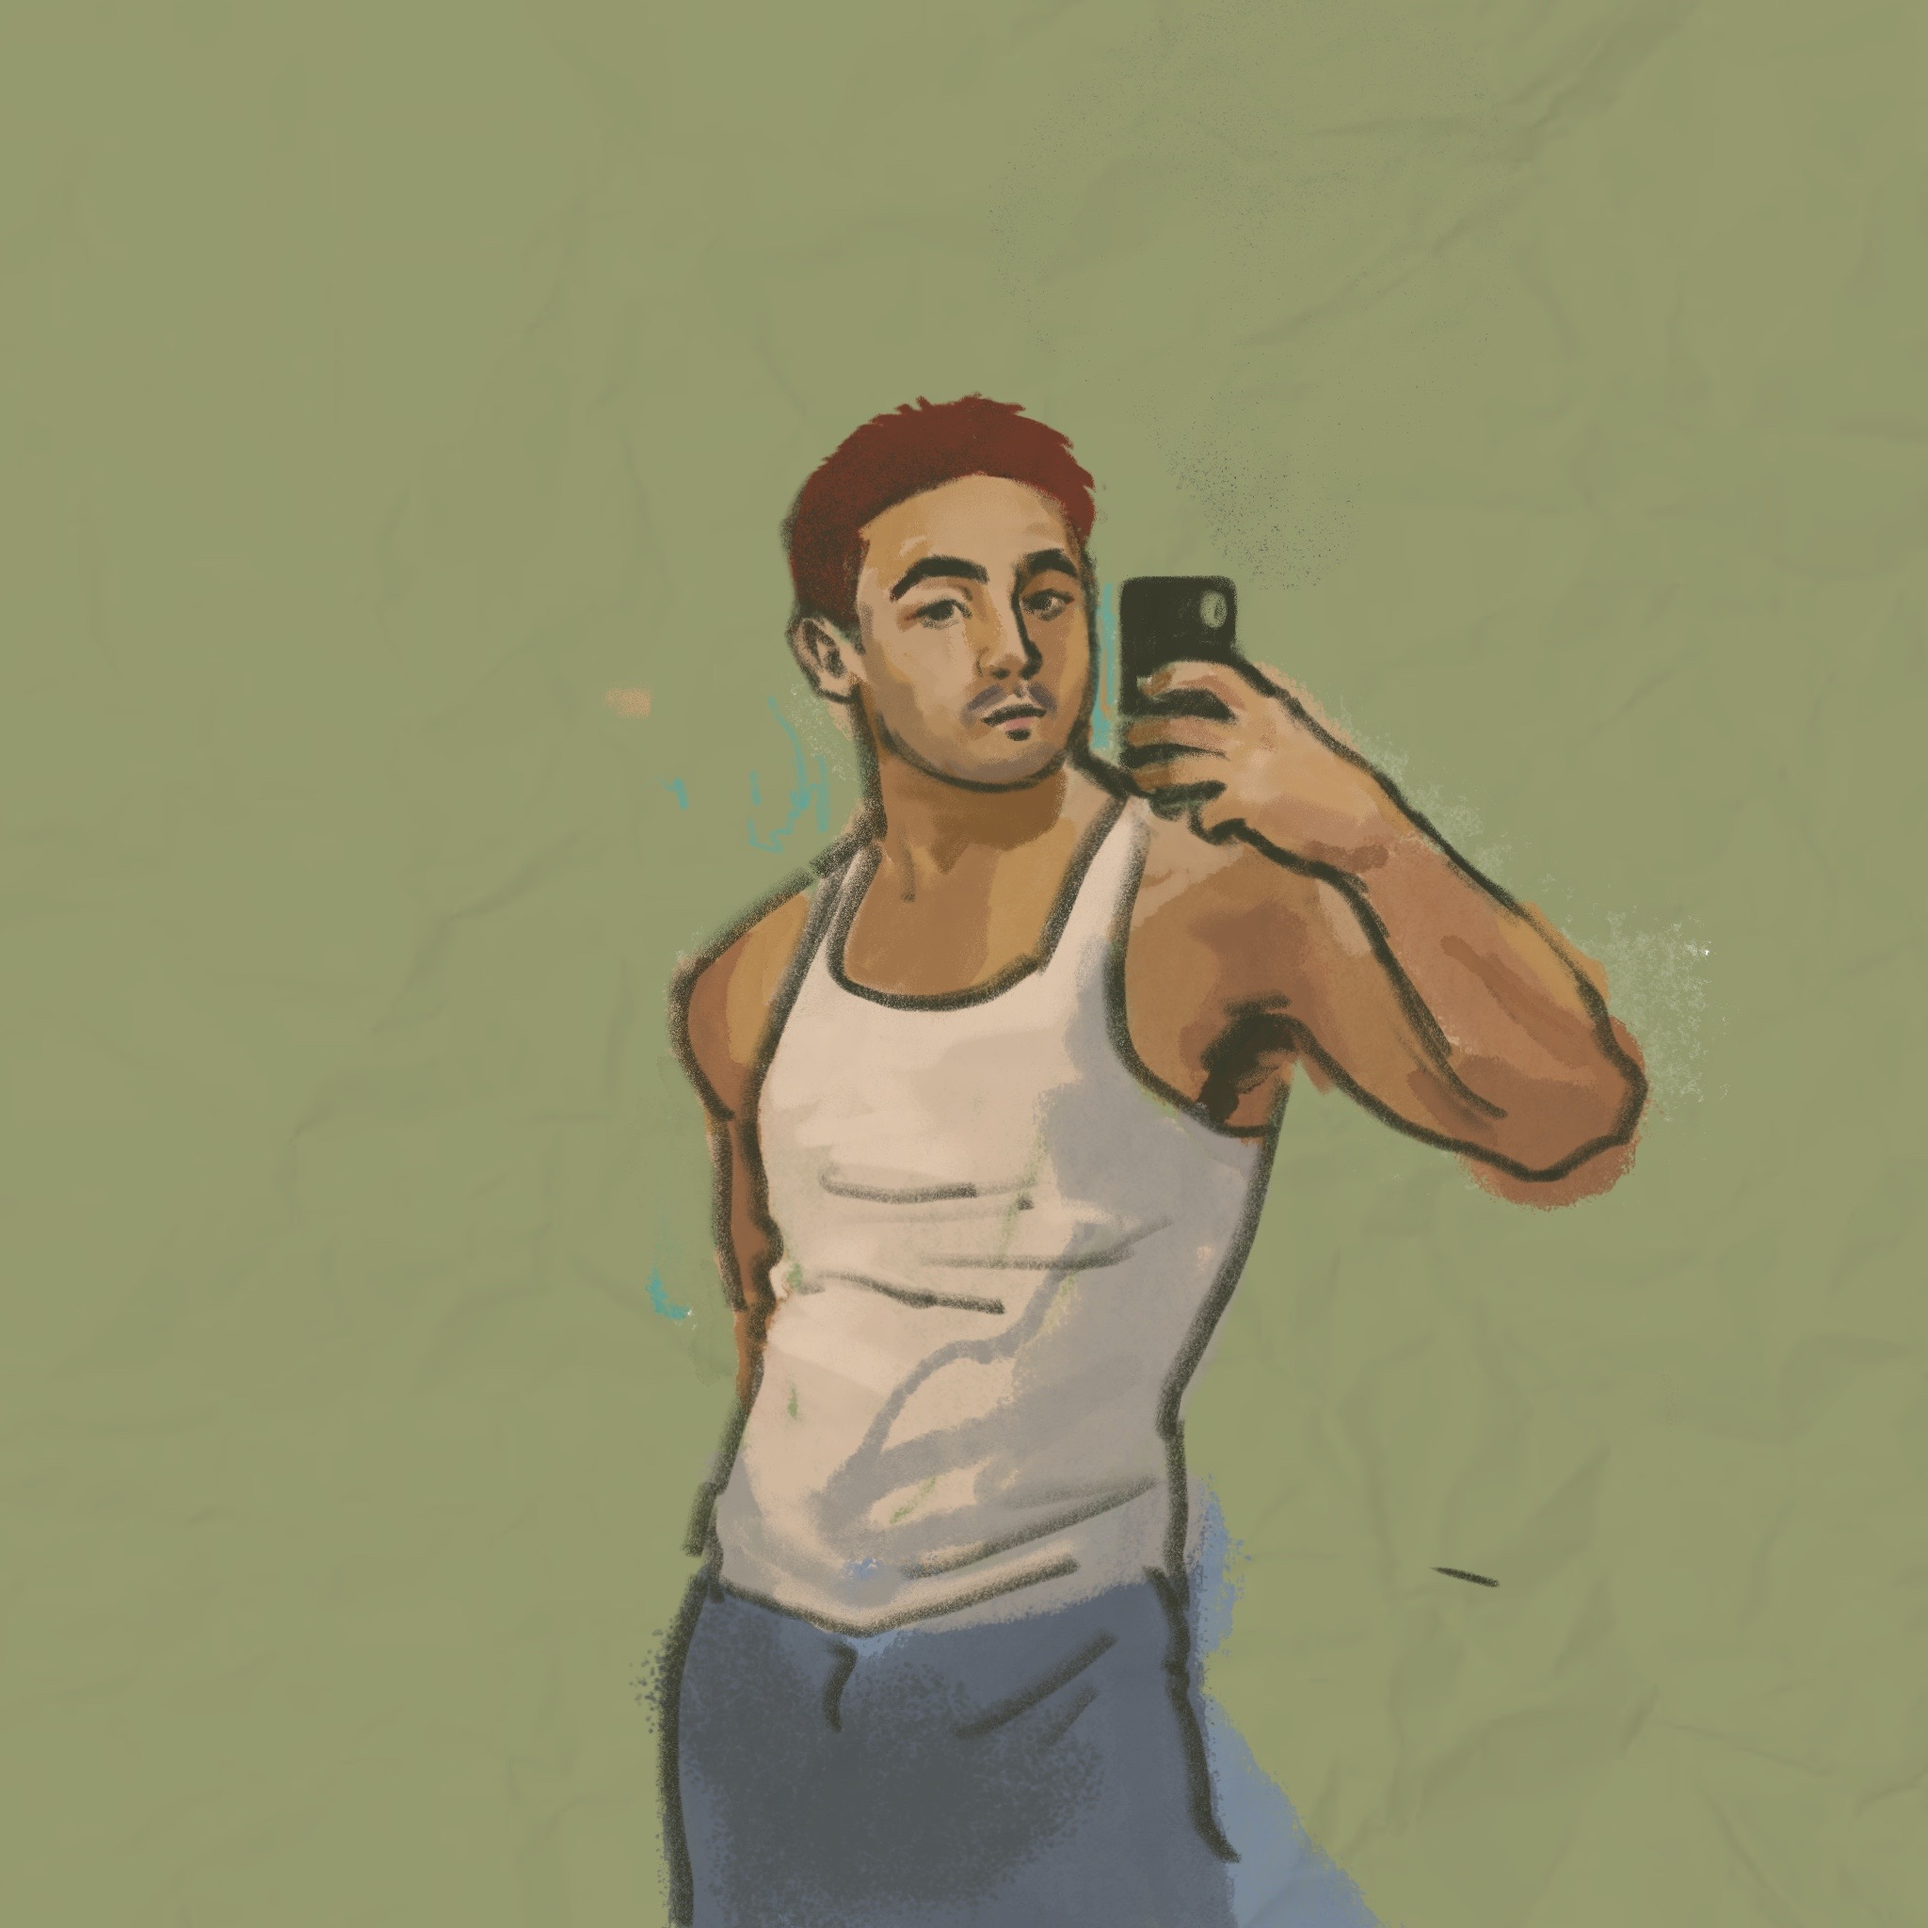
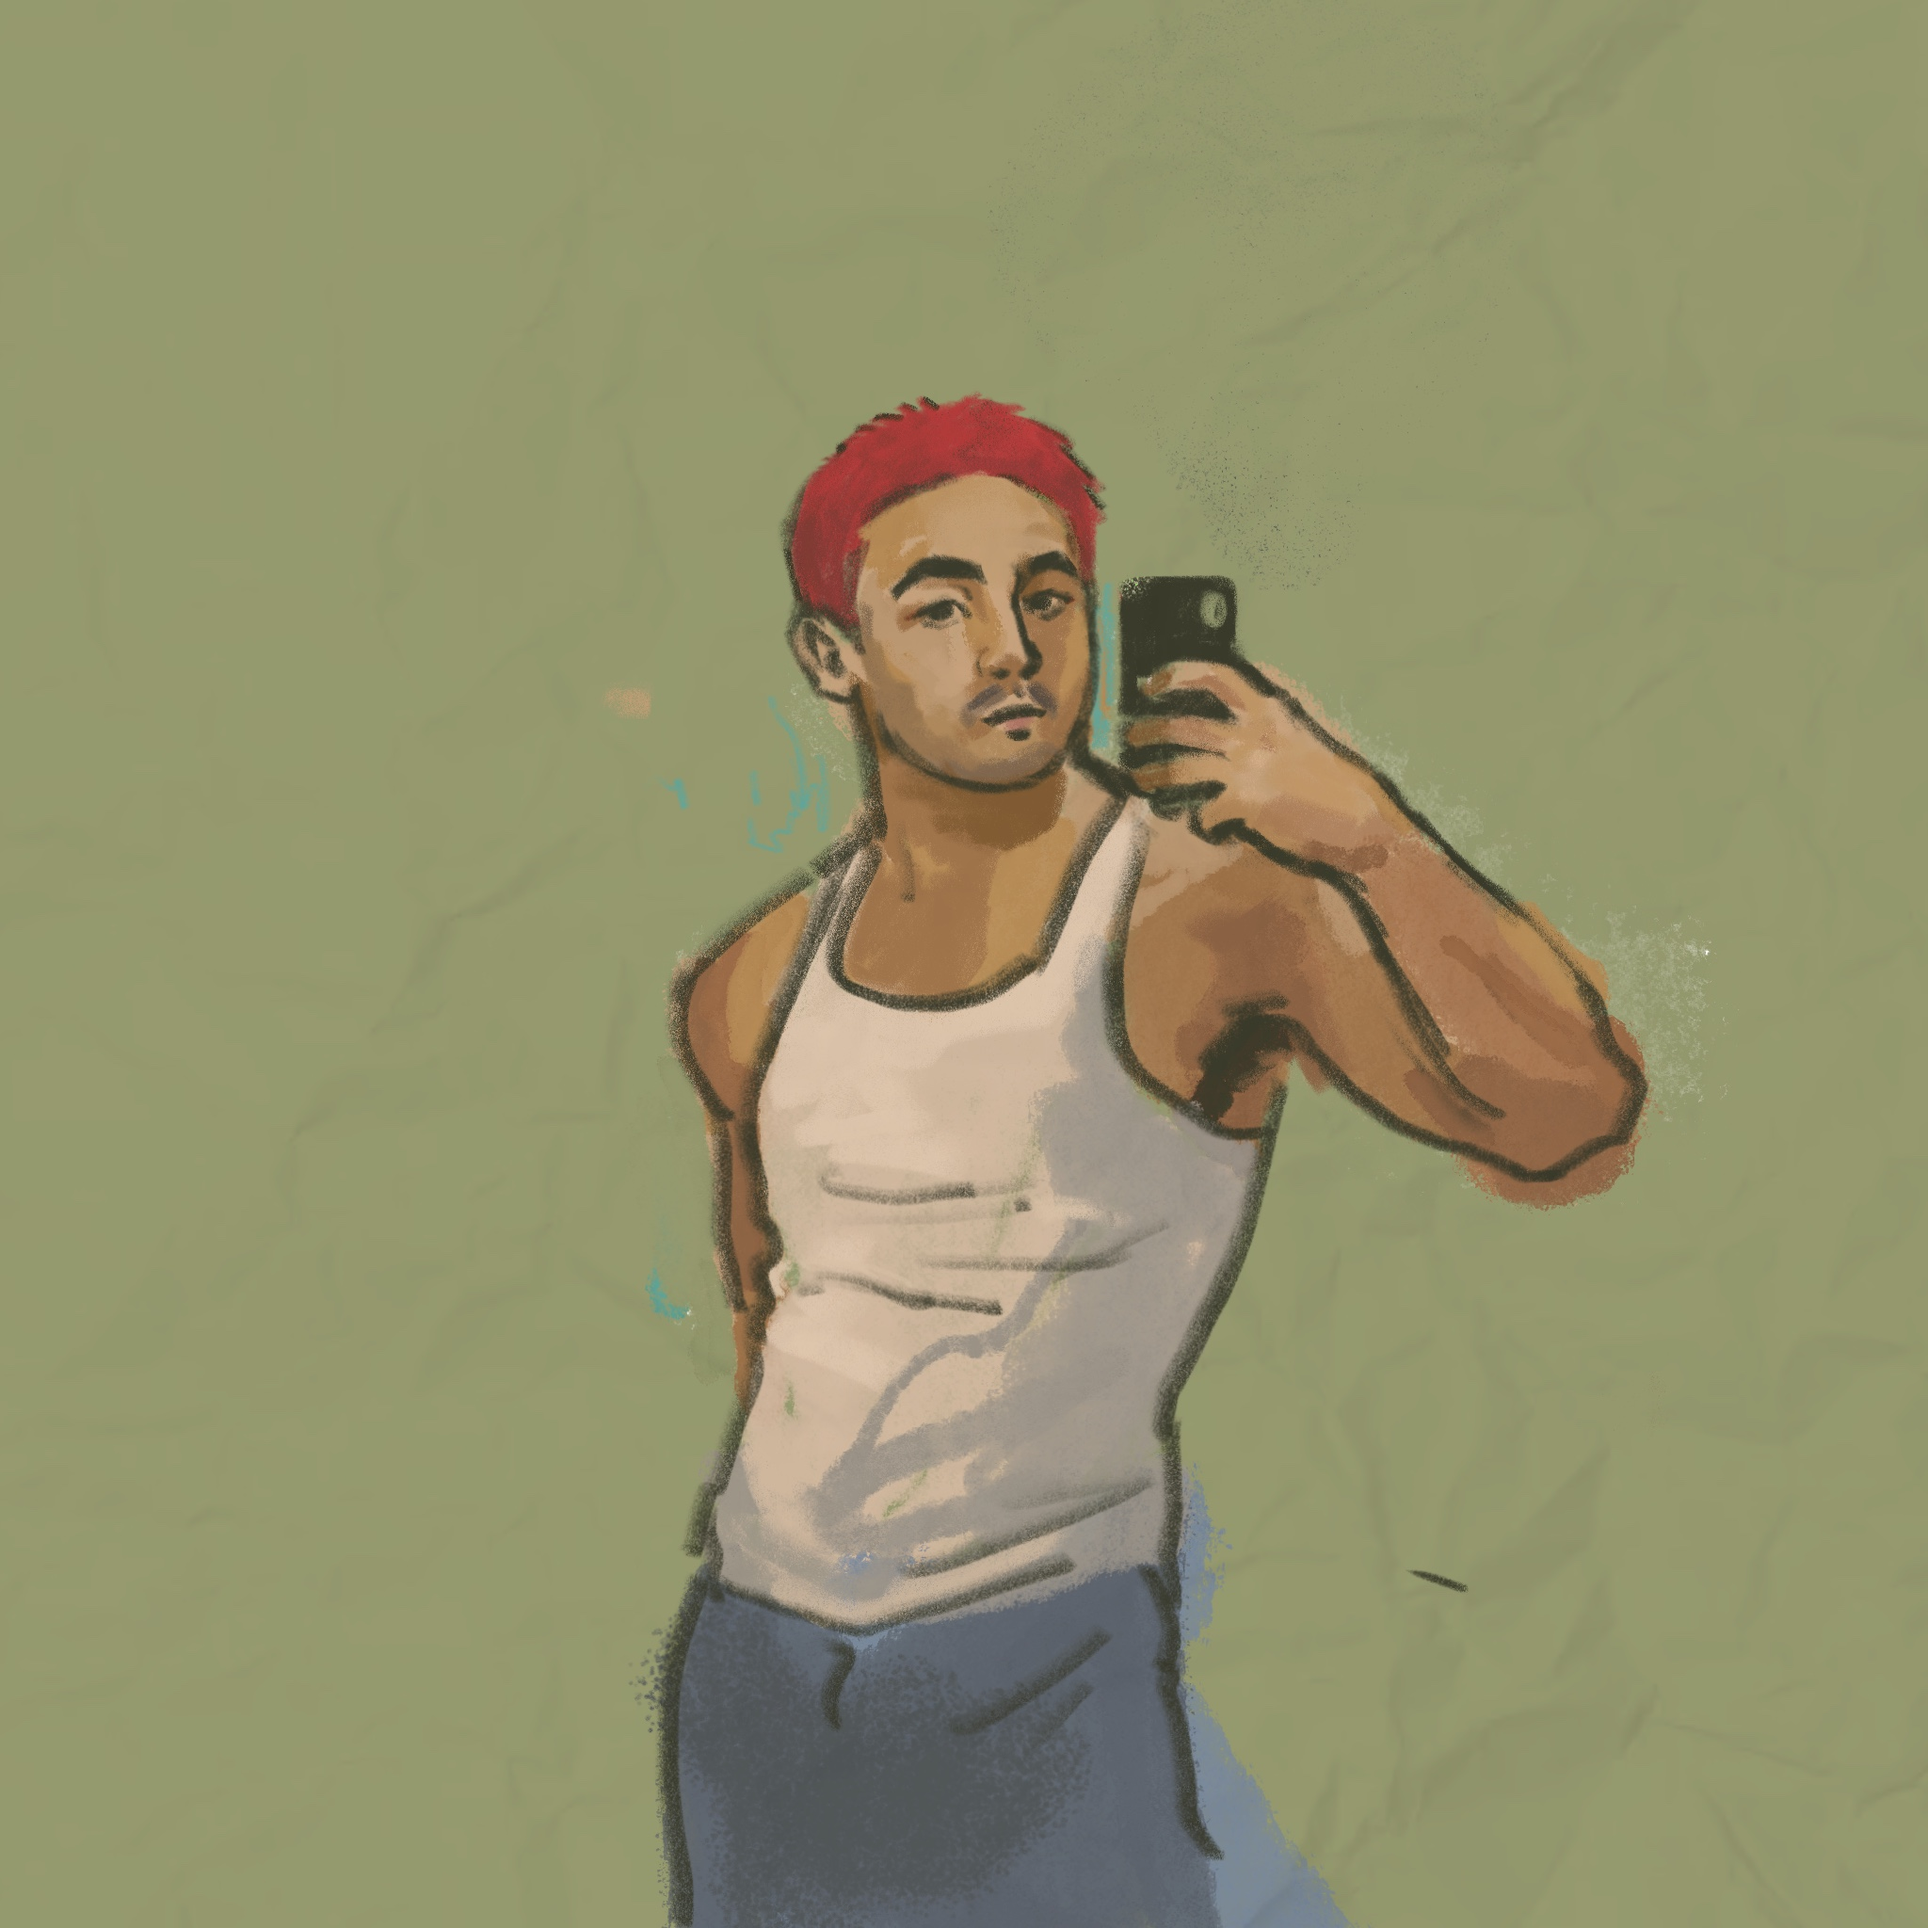
update

diff --git a/pages/base/bleach-neon-green.tsx b/pages/base/bleach-neon-green.tsx
@@ -1,0 +1,42 @@
+import Link from "next/link";
+
+export default function Index() {
+    return (
+        <>
+            <div className="select-none">
+                <div className="flex items-center justify-center mt-4">
+                    <h1>nice!!</h1>
+                </div>
+
+                <div className="flex items-center justify-center">
+                    <img
+                        className="w-[500px] my-4"
+                        src="/base-bleached-green.jpg"
+                        alt="Matt in the mirror"
+                    />
+                </div>
+
+                <div className="flex items-center justify-center">
+                    <h1>change the style (subtle) </h1>
+                </div>
+
+                <div className="flex items-center justify-center">
+                    <Link href="/base/bleach">
+                        <div className="choice mx-5">style 1</div>
+                    </Link>{" "}
+                    <Link href="/base/bleach2">
+                        <div className="choice mx-5">style 2</div>
+                    </Link>
+                </div>
+
+                <div className="flex items-center justify-center mt-8 ">
+                    <Link href="/">
+                        <div className="choice mx-5 opacity-30 hover:opacity-70 transition">
+                            return to start
+                        </div>
+                    </Link>{" "}
+                </div>
+            </div>
+        </>
+    );
+}

diff --git a/pages/base/grow.tsx b/pages/base/grow.tsx
@@ -5,7 +5,7 @@ export default function Index() {
         <>
             <div className="select-none">
                 <div className="flex items-center justify-center mt-4">
-                    <h1>back to the original length! </h1>
+                    <h1>your hair is growing out! </h1>
                 </div>
 
                 <div className="flex items-center justify-center">
@@ -17,7 +17,7 @@ export default function Index() {
                 </div>
 
                 <div className="flex items-center justify-center">
-                    <h1>keep growing it out / pick a random style?</h1>
+                    <h1>pick a random style?</h1>
                 </div>
 
                 <div className="flex items-center justify-center">
@@ -39,16 +39,6 @@ export default function Index() {
                     <Link href="/bieber">
                         <div className="choice mx-5">6</div>
                     </Link>
-                </div>
-                <br></br>
-
-                <div className="flex items-center justify-center">
-                    <h1>or</h1>
-                </div>
-                <div className="flex items-center justify-center">
-                    <Link href="/">
-                        <div className="choice mx-5">keep current length</div>
-                    </Link>{" "}
                 </div>
 
                 <div className="flex items-center justify-center mt-8 ">

diff --git a/pages/base/dye.tsx b/pages/base/dye.tsx
@@ -22,11 +22,25 @@ export default function Index() {
 
                 <div className="flex items-center justify-center">
                     <Link href="/base/blue">
-                        <div className="choice mx-5">blue</div>
+                        <div className="choice mx-5">1</div>
                     </Link>{" "}
                     <Link href="/base/red">
-                        <div className="choice mx-5">red</div>
+                        <div className="choice mx-5">2</div>
                     </Link>
+                    <Link href="/base/red">
+                        <div className="choice mx-5">2</div>
+                    </Link>
+                </div>
+                <br></br>
+
+                <div className="flex items-center justify-center">
+                    <h1>
+                        (hint: for more colors, it might be beneficial to{" "}
+                        <Link href="/base/bleach">
+                            <span className="choice">bleach</span>
+                        </Link>{" "}
+                        your hair first)
+                    </h1>
                 </div>
 
                 <div className="flex items-center justify-center mt-8 ">

diff --git a/pages/wavy/pink.tsx b/pages/wavy/pink.tsx
@@ -29,9 +29,7 @@ export default function Index() {
                     <Link href="/wavy/brown">
                         <div className="choice mx-5 transition">3 </div>
                     </Link>{" "}
-                    <Link href="/wavy/pink">
-                        <div className="choice mx-5 transition">4 </div>
-                    </Link>{" "}
+                    <div className=" mx-5 transition">4 </div>
                     <Link href="/wavy/purple">
                         <div className="choice mx-5 transition">5 </div>
                     </Link>{" "}

diff --git a/pages/wavy/blue.tsx b/pages/wavy/blue.tsx
@@ -23,9 +23,7 @@ export default function Index() {
                     <Link href="/wavy/blond">
                         <div className="choice mx-5 transition">1</div>
                     </Link>{" "}
-                    <Link href="/wavy/blue">
-                        <div className="choice mx-5 transition">2 </div>
-                    </Link>{" "}
+                    <div className=" mx-5 transition">2 </div>
                     <Link href="/wavy/brown">
                         <div className="choice mx-5 transition">3 </div>
                     </Link>{" "}

diff --git a/pages/wavy/brown.tsx b/pages/wavy/brown.tsx
@@ -26,9 +26,7 @@ export default function Index() {
                     <Link href="/wavy/blue">
                         <div className="choice mx-5 transition">2 </div>
                     </Link>{" "}
-                    <Link href="/wavy/brown">
-                        <div className="choice mx-5 transition">3 </div>
-                    </Link>{" "}
+                    <div className=" mx-5 transition">3 </div>
                     <Link href="/wavy/pink">
                         <div className="choice mx-5 transition">4 </div>
                     </Link>{" "}

diff --git a/pages/wavy/purple.tsx b/pages/wavy/purple.tsx
@@ -32,9 +32,7 @@ export default function Index() {
                     <Link href="/wavy/pink">
                         <div className="choice mx-5 transition">4 </div>
                     </Link>{" "}
-                    <Link href="/wavy/purple">
-                        <div className="choice mx-5 transition">5 </div>
-                    </Link>{" "}
+                    <div className=" mx-5 transition">5 </div>
                     <Link href="/wavy/red">
                         <div className="choice mx-5 transition">6 </div>
                     </Link>{" "}

diff --git a/pages/wavy/blond.tsx b/pages/wavy/blond.tsx
@@ -20,9 +20,7 @@ export default function Index() {
                     <h1>pick a random color</h1>
                 </div>
                 <div className="flex items-center justify-center ">
-                    <Link href="/wavy/blond">
-                        <div className="choice mx-5 transition">1</div>
-                    </Link>{" "}
+                    <div className=" mx-5 transition">1</div>
                     <Link href="/wavy/blue">
                         <div className="choice mx-5 transition">2 </div>
                     </Link>{" "}

diff --git a/pages/wavy/red.tsx b/pages/wavy/red.tsx
@@ -35,9 +35,7 @@ export default function Index() {
                     <Link href="/wavy/purple">
                         <div className="choice mx-5 transition">5 </div>
                     </Link>{" "}
-                    <Link href="/wavy/red">
-                        <div className="choice mx-5 transition">6 </div>
-                    </Link>{" "}
+                    <div className=" mx-5 transition">6 </div>
                 </div>
 
                 <div className="flex items-center justify-center mt-8 ">

diff --git a/pages/bieber/dye.tsx b/pages/bieber/dye.tsx
@@ -5,7 +5,10 @@ export default function Index() {
         <>
             <div className="select-none">
                 <div className="flex items-center justify-center mt-4">
-                    <h1>you have the power to bring this back</h1>
+                    <h1>
+                        i believe you have the power to bring back bieber
+                        fever!!!
+                    </h1>
                 </div>
 
                 <div className="flex items-center justify-center">

diff --git a/pages/index.tsx b/pages/index.tsx
@@ -37,6 +37,9 @@ export default function Index() {
                     <Link href="/base/dye">
                         <div className="choice mx-5">dye</div>
                     </Link>
+                    <Link href="/base/grow">
+                        <div className="choice mx-5">grow</div>
+                    </Link>
                 </div>
             </div>
         </>

diff --git a/pages/base/bleach-brow-purple.tsx b/pages/base/bleach-brow-purple.tsx
@@ -5,7 +5,7 @@ export default function Index() {
         <>
             <div className="select-none">
                 <div className="flex items-center justify-center mt-4">
-                    <h1>pretty fun right?</h1>
+                    <h1>pretty fun right???</h1>
                 </div>
 
                 <div className="flex items-center justify-center">
